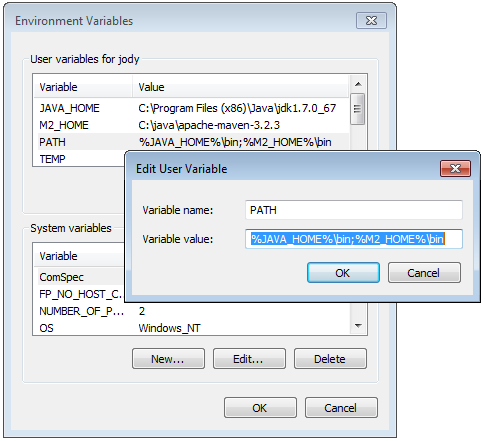
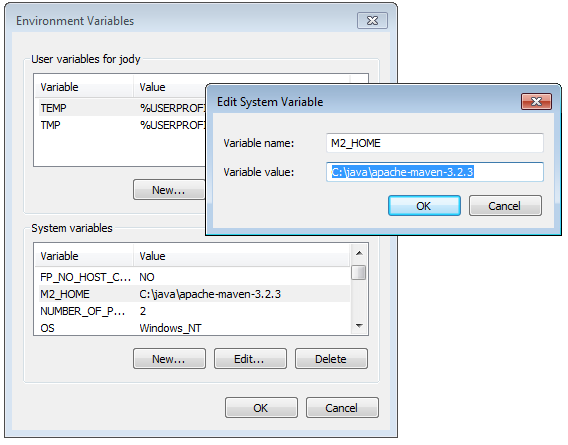
fix path and clarifications

Changed region(s): [[0.0, 0.0, 1.0, 1.0]]

diff --git a/docs/user/tutorial/quickstart/eclipse.rst b/docs/user/tutorial/quickstart/eclipse.rst
@@ -424,24 +424,33 @@ generating eclipse :file:`.project` and :file:`.classpath` files.
 
 1. Download Maven from http://maven.apache.org/download.html 
    
-   The last version we tested with was: Maven 2.2.1
+   The last version we tested with was: Maven 3.3.3
    
-2. Unzip the file apache-maven-2.2.1-bin.zip to C:\java\apache-maven-2.2.1
+2. Unzip the file apache-maven-2.2.1-bin.zip to C:\java\apache-maven-3.3.3
 3. You need to have a couple of environmental variables set for maven to work. Use
-   :menuselection:`Control Panel --> System --> Advanced --> Environmental Variables` to set the following.
+   :menuselection:`Control Panel --> System --> Advanced --> Environmental Variables` to set the following System Variables:
 
-   * JAVA_HOME = :file:`C:\Program Files\Java\jdk1.6.0_16`
-   * M2_HOME = :file:`C:\java\apache-maven-2.2.1`
-   * PATH = :file:`%JAVA_HOME%\bin;%M2_HOME%\bin`
-
+   Add the following system variables:
+   
+   * JAVA_HOME = :file:`C:\\Program Files (x86)\\Java\\jdk1.7.0_67`
+   * M2_HOME = :file:`C:\\java\\apache-maven-3.2.3`
+   
+   And add the following to your PATH:
+   
+   * PATH = :file:`%JAVA_HOME%\\bin;%M2_HOME%\\bin`
+   
    .. image:: images/env-variables.png
       :scale: 60
    
 4. Open up a commands prompt :menuselection:`Accessories --> Command Prompt`
 5. Type the following command to confirm you are set up correctly::
    
-      C:java> mvn -version
+      C:\\java> mvn -version
+   
+   If the `mvn` command is not found check your path using::
       
+      C:\\java> echo %PATH%
+   
 6. This should produce the following output
 
    .. image:: images/maven-version.png

diff --git a/docs/user/tutorial/quickstart/maven.rst b/docs/user/tutorial/quickstart/maven.rst
@@ -88,8 +88,13 @@ Installing Maven
 #. You need to have a couple of environmental variables set for maven to work. Navigate to
    :menuselection:`Control Panel --> System --> Advanced`. Change to the :guilabel:`Advanced` tab and click :guilabel:`Environmental Variables` button.
    
+   Add the following system variables:
+   
    * JAVA_HOME = :file:`C:\\Program Files (x86)\\Java\\jdk1.7.0_67`
    * M2_HOME = :file:`C:\\java\\apache-maven-3.2.3`
+   
+   And add the following to your PATH:
+   
    * PATH = :file:`%JAVA_HOME%\\bin;%M2_HOME%\\bin`
    
    .. image:: images/env-variables.png

diff --git a/docs/user/tutorial/feature/csv2shp.rst b/docs/user/tutorial/feature/csv2shp.rst
@@ -130,6 +130,7 @@ Things to note as we create the shapefile:
 
 * Use of DataStoreFactory with a parameter indicating we want a spatial index
 * The use of createSchema( SimpleFeatureType ) method to set up the shapefile
+  (We will create the getNewShapeFile method in the next section)
  
   .. literalinclude:: /../src/main/java/org/geotools/tutorial/feature/Csv2Shape.java
      :language: java
